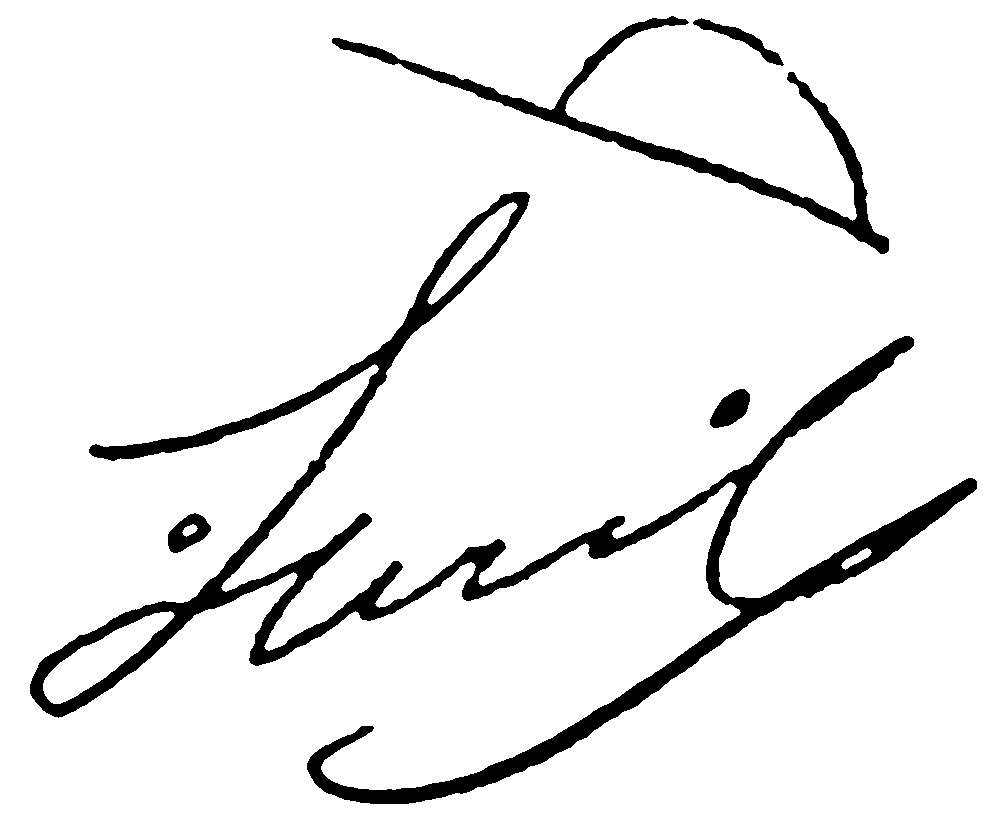
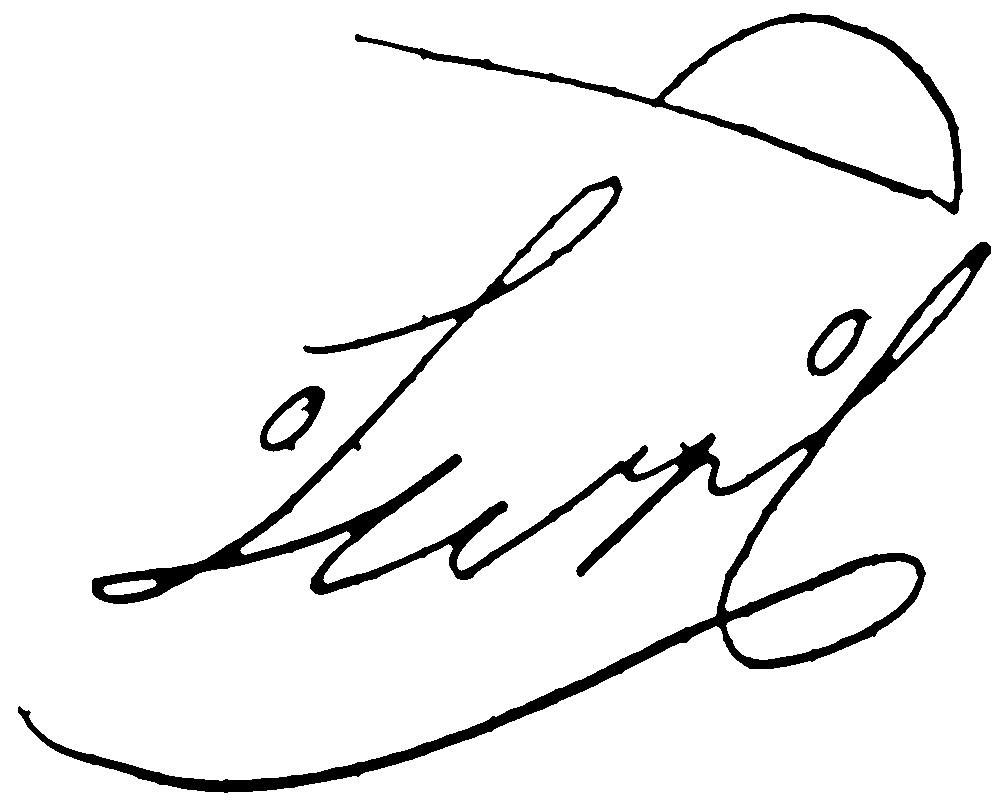
Signature traced from a cleaner pencil photo (rotated, grid filtered out)
clean-photo.py gains rotate and threshold options for sideways signatures on squared paper.

diff --git a/components/ui/signature.tsx b/components/ui/signature.tsx
@@ -6,49 +6,50 @@ import { cn } from '@/lib/utils';
 // sketch (shapes). Each stroke is cut into short pieces so the replay keeps the hand's speed changes:
 // [path, start (s), duration (s)].
 const PIECES: [string, number, number][] = [
-  ['M95.0 450.0C95.1 450.2 93.0 451.2 95.7 451.4C98.5 451.6 106.4 451.6 111.7 451.4C117.1 451.3 121.4 451.2 127.7 450.8C134.0 450.3 142.0 449.6 149.6 448.6C157.2 447.6 165.8 446.2 173.3 444.7C180.8 443.2 187.6 441.5 194.7 439.7C201.8 437.8 208.5 435.8 215.8 433.5C223.1 431.2 230.4 428.7 238.5 425.7C246.7 422.7 260.3 417.2 264.6 415.5', 0.0, 0.055],
-  ['M264.6 415.5C272.0 412.4 296.6 402.1 308.7 396.6C320.9 391.1 328.7 387.4 337.6 382.8C346.4 378.1 354.8 373.3 361.8 368.8C368.8 364.3 374.4 360.0 379.5 355.7C384.6 351.5 388.2 347.9 392.4 343.2C396.6 338.5 401.2 332.3 404.7 327.5C408.2 322.6 408.6 322.0 413.4 314.0C418.2 306.0 428.5 288.1 433.6 279.5C438.7 270.9 442.4 265.3 444.1 262.5', 0.055, 0.055],
-  ['M444.1 262.5C446.2 259.5 452.5 250.0 456.7 244.4C460.8 238.8 467.0 231.4 469.1 228.8', 0.11, 0.058],
-  ['M469.1 228.8C471.2 226.6 477.7 219.4 481.7 215.9C485.6 212.4 491.0 208.9 492.9 207.5', 0.168, 0.054],
-  ['M492.9 207.5C494.1 207.0 497.9 204.9 500.1 204.2C502.3 203.5 504.0 203.2 506.0 203.1C508.0 203.1 510.4 203.5 511.9 204.0C513.4 204.5 514.5 205.5 515.2 206.1C516.0 206.8 516.0 206.9 516.4 207.8C516.7 208.7 517.2 210.0 517.2 211.7C517.1 213.3 516.7 215.3 515.9 217.5C515.2 219.7 514.0 222.1 512.6 224.8C511.2 227.4 510.1 229.5 507.4 233.3C504.7 237.1 500.4 243.1 496.5 247.6C492.7 252.2 488.5 256.5 484.2 260.8C480.0 265.0 479.8 265.3 471.1 273.1C462.4 280.8 441.7 298.8 432.1 307.5C422.5 316.3 416.5 322.6 413.4 325.6', 0.222, 0.053],
-  ['M413.4 325.6C411.0 328.3 403.4 336.3 398.7 341.9C394.1 347.6 389.8 353.5 385.6 359.6C381.4 365.6 381.0 366.1 373.7 378.1C366.4 390.0 349.2 419.4 341.9 431.3C334.5 443.2 334.0 443.2 329.5 449.5C325.1 455.7 320.1 462.4 315.2 468.8C310.3 475.1 305.5 481.1 300.2 487.5C294.9 493.9 299.7 488.8 283.4 507.3C267.1 525.8 216.0 583.4 202.5 598.6', 0.275, 0.055],
-  ['M202.5 598.6C201.2 599.6 197.2 603.3 194.7 604.8C192.2 606.4 189.8 607.1 187.3 607.8C184.7 608.5 185.0 608.6 179.4 609.0C173.7 609.3 159.1 609.6 153.4 610.0C147.8 610.3 147.8 610.6 145.5 611.1C143.2 611.5 142.2 611.7 139.7 612.5C137.2 613.4 138.3 612.6 130.4 616.3C122.6 620.0 98.9 631.6 92.7 634.7', 0.329, 0.056],
-  ['M92.7 634.7C88.8 636.7 75.0 644.0 69.8 647.0C64.6 649.9 64.1 650.6 61.5 652.5C58.8 654.5 56.0 656.9 53.8 658.9C51.6 661.0 50.0 662.7 48.3 664.8C46.7 666.9 45.1 669.1 43.9 671.4C42.7 673.8 41.7 676.6 41.0 678.9C40.4 681.1 40.2 683.8 40.1 684.8', 0.385, 0.055],
-  ['M40.1 684.8C40.1 685.8 40.0 688.8 40.3 690.8C40.6 692.7 41.1 694.8 42.0 696.5C42.8 698.3 44.0 700.1 45.4 701.4C46.9 702.7 48.4 703.6 50.6 704.3C52.8 705.1 55.8 705.6 58.4 705.7C61.1 705.9 63.5 705.7 66.4 705.2C69.4 704.7 72.9 703.8 76.1 702.8C79.2 701.7 81.2 701.1 85.3 698.9C89.4 696.7 95.5 693.2 100.7 689.6C105.9 686.0 111.3 681.6 116.4 677.3C121.5 673.0 123.3 671.4 131.2 663.8C139.2 656.2 156.0 639.1 164.0 631.6C172.0 624.0 175.3 621.7 179.2 618.6C183.1 615.4 184.5 614.6 187.3 612.7C190.1 610.9 192.6 609.3 195.8 607.5C199.0 605.7 202.8 603.6 206.4 601.9C210.0 600.1 215.6 597.8 217.4 597.0', 0.44, 0.054],
-  ['M217.4 597.0C220.5 595.8 225.1 593.7 236.0 589.8C247.0 585.8 271.4 577.7 283.2 573.3C295.1 568.9 303.2 564.8 307.2 563.1', 0.494, 0.068],
-  ['M307.2 563.1C310.4 561.3 321.8 555.1 326.3 552.4C330.9 549.6 331.9 548.6 334.5 546.6C337.2 544.6 341.0 541.4 342.3 540.3', 0.562, 0.042],
-  ['M342.3 540.3C343.9 538.7 349.1 533.9 352.2 530.5C355.3 527.0 359.2 521.4 361.0 519.5C362.7 517.7 362.1 519.1 362.7 519.2C363.3 519.3 367.8 516.9 364.5 519.9C361.2 522.9 348.6 532.3 342.7 537.1C336.8 541.9 333.5 544.8 329.0 548.8C324.6 552.9 320.3 557.0 316.1 561.3C311.9 565.6 305.9 572.4 303.9 574.6', 0.604, 0.058],
-  ['M303.9 574.6C301.7 577.1 294.7 585.1 290.9 589.8C287.1 594.4 284.1 598.4 281.1 602.4C278.1 606.4 275.5 610.3 273.2 614.0C270.9 617.6 268.9 621.1 267.3 624.4C265.7 627.7 264.4 630.8 263.5 633.6C262.6 636.5 262.2 639.2 262.1 641.5C262.0 643.8 262.4 645.8 262.9 647.4C263.4 649.0 264.3 650.1 264.8 650.9C265.4 651.7 266.1 652.0 266.3 652.2', 0.662, 0.053],
-  ['M266.3 652.2C266.9 652.5 268.4 653.6 270.0 653.7C271.6 653.9 273.7 653.8 275.9 653.2C278.1 652.6 280.3 651.6 283.3 650.1C286.2 648.6 292.0 645.2 293.7 644.2', 0.715, 0.055],
-  ['M293.7 644.2C298.8 641.0 319.2 628.3 324.2 625.1', 0.77, 0.055],
-  ['M324.2 625.1C330.2 621.4 352.1 608.0 359.9 602.9C367.7 597.8 367.7 597.2 371.0 594.4C374.3 591.6 378.2 587.5 379.7 586.2', 0.825, 0.054],
-  ['M379.7 586.2C381.0 584.6 385.2 579.9 387.4 576.9C389.6 574.0 391.7 570.2 392.8 568.6C394.0 567.0 393.9 567.7 394.5 567.5C395.1 567.3 397.6 566.3 396.3 567.6C395.0 568.8 389.5 572.4 386.8 574.8C384.0 577.2 381.9 579.4 379.7 581.9C377.6 584.4 375.5 587.5 374.0 590.1C372.5 592.7 371.5 595.2 371.0 597.4C370.4 599.7 370.4 601.8 370.7 603.4C370.9 604.9 372.0 606.1 372.6 606.8C373.2 607.6 373.3 607.6 374.2 607.9C375.2 608.2 376.1 608.8 378.1 608.8C380.1 608.9 384.7 608.3 386.1 608.2', 0.879, 0.057],
-  ['M386.1 608.2C387.3 607.8 390.9 607.0 393.7 606.0C396.6 605.0 401.5 602.9 403.0 602.3', 0.935, 0.054],
-  ['M403.0 602.3C405.3 601.0 412.0 597.8 417.0 594.6C422.1 591.3 430.5 584.8 433.2 582.9', 0.989, 0.057],
-  ['M433.2 582.9C436.1 580.6 445.9 572.6 450.4 569.2C454.9 565.7 456.8 564.3 460.2 562.2C463.6 560.0 467.3 557.9 470.6 556.3C473.9 554.6 478.4 553.2 479.9 552.6', 1.046, 0.052],
-  ['M479.9 552.6C481.2 552.2 484.8 551.2 487.7 550.6C490.6 550.0 495.6 549.7 497.2 549.1C498.9 548.6 497.6 547.7 497.6 547.2C497.5 546.6 497.9 545.5 496.9 545.9C496.0 546.2 492.7 548.5 491.9 549.1', 1.098, 0.055],
-  ['M491.9 549.1C490.9 549.9 487.7 552.4 485.8 554.3C484.0 556.2 482.2 558.3 480.8 560.5C479.3 562.7 478.0 565.4 477.1 567.6C476.2 569.7 475.8 571.4 475.5 573.3C475.2 575.3 475.0 577.4 475.3 579.3C475.6 581.2 476.4 583.5 477.3 584.9C478.1 586.2 478.8 586.8 480.3 587.4C481.8 588.0 483.5 588.6 486.1 588.4C488.8 588.3 491.8 587.9 495.9 586.5C500.0 585.2 505.6 582.8 510.7 580.4C515.8 577.9 518.7 576.3 526.5 571.8C534.2 567.2 549.7 557.4 557.2 553.1C564.7 548.7 569.1 547.0 571.5 545.8', 1.153, 0.055],
-  ['M571.5 545.8C575.6 544.4 590.8 539.4 596.1 537.4C601.4 535.4 601.3 535.2 603.4 534.1C605.4 533.0 607.0 531.8 608.4 530.8C609.7 529.8 610.4 529.0 611.3 528.1C612.2 527.1 612.9 526.3 613.8 524.9C614.7 523.5 615.8 520.6 616.6 519.7C617.5 518.8 619.3 519.4 619.0 519.6C618.8 519.9 616.5 520.5 615.3 521.1C614.2 521.7 613.0 522.5 612.0 523.3C611.0 524.2 610.3 524.9 609.3 526.3C608.3 527.6 606.7 530.5 606.1 531.3', 1.208, 0.055],
-  ['M606.1 531.3C605.5 532.5 603.4 536.7 602.3 538.4C601.3 540.0 600.1 539.9 599.8 541.3C599.4 542.7 597.5 546.8 600.1 546.9C602.7 547.1 610.3 543.9 615.3 542.1C620.4 540.4 625.4 538.6 630.4 536.6C635.3 534.7 639.9 532.8 645.1 530.4C650.3 528.1 658.6 524.0 661.3 522.7', 1.262, 0.056],
-  ['M661.3 522.7C664.6 520.9 674.0 516.0 680.7 512.2C687.3 508.3 694.4 503.9 701.1 499.6C707.8 495.2 713.9 491.1 720.9 486.1C728.0 481.0 739.6 472.1 743.4 469.3', 1.318, 0.053],
-  ['M743.4 469.3C747.6 466.0 755.0 460.4 768.4 449.4C781.8 438.4 810.4 414.4 823.8 403.3C837.1 392.3 839.7 390.2 848.7 383.3C857.6 376.3 868.3 368.3 877.5 361.7C886.7 355.1 899.4 347.0 904.0 343.8C908.6 340.6 904.9 342.5 904.9 342.3C904.9 342.0 907.7 339.5 903.8 342.3C900.0 345.2 890.6 353.0 881.8 359.6C873.0 366.2 856.2 378.3 851.1 382.1', 1.372, 0.055],
-  ['M851.1 382.1C845.8 386.0 828.2 398.7 818.9 405.8C809.7 412.8 799.5 421.4 795.6 424.6', 1.427, 0.055],
-  ['M795.6 424.6C793.6 426.4 787.5 431.6 783.6 435.2C779.7 438.9 777.2 441.1 772.2 446.4C767.2 451.8 758.1 462.0 753.6 467.4C749.1 472.7 747.7 475.0 745.2 478.6C742.7 482.1 740.7 485.2 738.6 488.6C736.5 491.9 734.4 495.4 732.5 498.9C730.7 502.4 728.9 506.0 727.2 509.7C725.6 513.3 724.0 517.4 722.8 520.8C721.5 524.3 720.7 526.8 719.8 530.4C718.9 533.9 717.9 538.5 717.3 542.1C716.6 545.7 716.3 548.7 716.1 552.0C715.8 555.3 715.8 558.7 715.8 562.0C715.9 565.3 716.1 568.7 716.5 572.0C717.0 575.3 717.6 578.9 718.4 581.8C719.1 584.7 720.5 588.1 721.0 589.4', 1.482, 0.055],
-  ['M721.0 589.4C721.5 590.2 723.0 593.2 723.9 594.6C724.8 596.0 725.5 596.7 726.4 597.7C727.3 598.6 728.0 599.4 729.4 600.3C730.8 601.2 732.8 602.4 734.7 603.1C736.5 603.9 738.5 604.3 740.5 604.7C742.4 605.0 744.1 605.2 746.5 605.2C748.8 605.3 751.8 605.2 754.4 604.9C757.1 604.7 758.8 604.5 762.3 603.7C765.9 602.8 771.1 601.6 775.8 599.9C780.5 598.1 785.4 595.9 790.4 593.3C795.3 590.6 799.6 587.9 805.7 583.8C811.7 579.7 823.2 571.1 826.7 568.6', 1.536, 0.056],
-  ['M826.7 568.6C828.9 567.1 835.1 562.6 839.9 559.6C844.7 556.6 844.5 556.1 855.5 550.5C866.5 544.9 894.8 531.4 905.8 525.9C916.8 520.4 919.1 518.9 921.7 517.5', 1.592, 0.057],
-  ['M921.7 517.5C924.0 516.1 931.2 512.0 935.4 509.2C939.6 506.5 943.2 504.1 946.9 501.3C950.7 498.5 954.6 495.3 957.8 492.5C961.1 489.7 964.8 485.6 966.6 484.3C968.4 483.0 968.1 484.5 968.3 484.7C968.6 484.9 968.8 485.0 968.0 485.8C967.1 486.5 967.2 486.4 963.1 489.3C959.0 492.1 949.9 498.4 943.2 502.7C936.5 507.1 931.8 510.2 922.9 515.5C914.0 520.7 904.5 526.3 889.9 534.3C875.3 542.3 844.3 558.6 835.2 563.5', 1.65, 0.051],
-  ['M835.2 563.5C828.5 567.2 807.6 578.4 795.0 585.9C782.4 593.3 771.1 600.5 759.4 608.1C747.6 615.7 744.3 617.9 724.6 631.6C704.9 645.3 661.7 676.1 641.1 690.3C620.6 704.5 613.8 708.8 601.2 716.9C588.5 724.9 576.8 732.0 565.2 738.5C553.6 745.1 541.5 751.4 531.6 756.3C521.8 761.2 514.4 764.4 506.1 767.9C497.9 771.4 490.1 774.5 481.9 777.4C473.8 780.3 465.2 783.0 457.2 785.4C449.2 787.7 441.4 789.7 434.0 791.4C426.5 793.0 418.9 794.4 412.3 795.4C405.7 796.3 400.4 796.9 394.4 797.1C388.4 797.4 382.1 797.4 376.4 797.0C370.8 796.6 363.2 795.2 360.6 794.8', 1.701, 0.055],
-  ['M360.6 794.8C359.0 794.4 353.8 793.1 351.0 792.2C348.1 791.3 346.2 790.6 343.5 789.4C340.7 788.1 337.2 786.3 334.6 784.8C332.0 783.3 329.8 781.7 328.0 780.3C326.2 778.9 324.9 777.7 323.5 776.3C322.2 774.8 320.9 773.2 319.9 771.5C318.9 769.8 318.1 767.6 317.7 766.0C317.4 764.4 317.5 763.3 317.7 762.0C317.8 760.7 318.3 759.4 318.8 758.2C319.4 757.0 319.9 756.1 321.0 754.8C322.1 753.6 323.5 752.1 325.2 750.6C327.0 749.1 328.0 748.1 331.7 745.9C335.5 743.8 341.6 740.3 347.6 737.5C353.6 734.8 364.4 730.9 367.8 729.5', 1.756, 0.054],
-  ['M177.0 533.0C176.7 532.9 175.1 532.8 175.2 532.1C175.3 531.5 177.3 529.5 177.7 529.0', 1.963, 0.055],
-  ['M177.7 529.0C178.4 528.3 180.6 525.8 181.8 524.7C183.0 523.5 183.9 522.9 185.0 522.2C186.1 521.5 187.3 520.8 188.5 520.4C189.8 520.0 191.5 519.8 192.5 519.8C193.4 519.7 193.6 519.7 194.4 520.1C195.3 520.6 196.8 521.4 197.6 522.4C198.4 523.4 198.9 524.8 199.1 526.1C199.3 527.4 198.9 529.4 198.8 530.0', 2.018, 0.062],
-  ['M198.8 530.0C198.4 530.9 197.0 534.0 196.1 535.4C195.2 536.7 194.4 537.4 193.4 538.2C192.4 539.1 190.6 540.1 190.0 540.4', 2.081, 0.047],
-  ['M190.0 540.4C189.1 540.7 185.9 541.8 184.3 541.9C182.7 542.1 181.6 541.8 180.4 541.3C179.1 540.9 177.9 540.2 176.8 539.5C175.8 538.7 174.4 537.4 174.0 536.7C173.6 536.0 174.1 535.8 174.5 535.5C174.9 535.1 175.9 534.6 176.2 534.5', 2.128, 0.055],
-  ['M723.4 415.6C724.6 414.4 729.4 409.8 730.6 408.6', 2.438, 0.047],
-  ['M730.6 408.6C731.3 408.0 734.3 405.3 735.1 404.6', 2.485, 0.058],
-  ['M735.1 404.6C735.7 403.9 738.4 400.9 739.1 400.2', 2.543, 0.05],
-  ['M883.0 245.0C883.0 244.3 889.5 244.8 883.3 241.1C877.0 237.4 860.0 229.5 845.4 222.9C830.8 216.3 813.5 208.6 795.9 201.4C778.3 194.1 755.9 185.5 740.1 179.4C724.2 173.3 714.7 170.0 700.6 165.0C686.5 160.0 695.1 162.6 655.3 149.2C615.5 135.9 504.6 99.4 461.7 84.8C418.8 70.2 418.0 69.4 397.7 61.8C377.4 54.2 350.0 43.0 340.0 39.1C330.1 35.2 338.8 38.4 338.2 38.5C337.6 38.6 336.9 39.5 336.6 39.7', 2.817, 0.082],
-  ['M860.0 227.0C860.3 226.4 861.7 224.8 862.0 223.6C862.4 222.3 862.5 222.6 862.3 219.7C862.1 216.7 861.6 210.7 860.8 205.8C860.1 200.8 858.8 194.6 857.8 190.0C856.8 185.5 856.0 182.6 854.8 178.4C853.5 174.3 852.0 169.5 850.5 165.1C848.9 160.7 847.2 156.4 845.4 152.1C843.6 147.8 842.6 145.3 839.6 139.3C836.5 133.4 831.5 124.0 827.0 116.6C822.4 109.3 816.1 100.6 812.1 95.3C808.2 89.9 806.1 87.7 803.2 84.5C800.4 81.2 797.9 78.5 795.1 75.7C792.3 72.8 789.4 70.0 786.5 67.3C783.5 64.6 781.9 62.9 777.4 59.5C772.9 56.0 765.4 50.4 759.5 46.7C753.6 43.0 746.7 39.5 741.9 37.1C737.2 34.8 734.3 33.8 730.9 32.5C727.5 31.2 726.2 30.6 721.4 29.3C716.6 28.1 708.5 25.9 701.9 24.9C695.3 23.9 687.0 23.4 682.0 23.1C677.0 22.9 675.3 23.1 672.0 23.3C668.7 23.5 665.4 23.8 662.1 24.2C658.7 24.7 655.5 25.2 652.2 25.9C648.9 26.6 645.7 27.4 642.5 28.4C639.3 29.3 636.1 30.4 633.0 31.6C629.9 32.8 625.4 34.9 623.9 35.5', 3.075, 0.062],
-  ['M623.9 35.5C622.1 36.5 617.0 39.0 613.4 41.3C609.7 43.6 605.3 46.7 601.9 49.4C598.5 52.1 596.0 54.3 593.0 57.4C589.9 60.4 586.5 64.1 583.6 67.8C580.7 71.4 577.9 75.2 575.4 79.1C572.9 83.0 570.6 87.1 568.5 91.3C566.4 95.5 564.5 99.9 562.8 104.1C561.2 108.3 559.3 114.5 558.6 116.6', 3.138, 0.062],
+  ['M307.0 348.0C307.6 348.7 305.8 352.7 310.6 352.4C315.4 352.1 321.8 349.3 335.8 346.1C349.8 343.0 380.2 336.9 394.5 333.6C408.8 330.4 413.9 328.7 421.5 326.5C429.2 324.2 434.2 322.4 440.4 319.9C446.6 317.5 453.1 314.7 458.7 311.8C464.3 308.9 469.5 305.8 474.2 302.7C478.9 299.6 484.8 294.6 486.9 293.0', 0.0, 0.055],
+  ['M486.9 293.0C488.6 291.4 493.7 287.0 497.2 283.5C500.7 280.0 500.4 281.0 508.1 271.8C515.9 262.7 535.8 238.0 543.7 228.6C551.6 219.1 552.5 218.6 555.8 215.2C559.0 211.9 560.5 210.6 563.0 208.4C565.6 206.2 567.0 204.7 570.8 202.1C574.6 199.4 582.3 194.7 586.0 192.5C589.8 190.3 590.8 190.1 593.2 189.0C595.7 188.0 598.5 187.0 600.8 186.4C603.0 185.8 605.1 185.4 606.7 185.4C608.3 185.4 609.7 185.9 610.5 186.2C611.4 186.6 611.6 187.1 611.9 187.6C612.3 188.2 612.5 188.6 612.5 189.5C612.6 190.5 612.6 191.9 612.3 193.5C612.0 195.1 611.2 197.4 610.5 199.2C609.8 201.1 609.1 202.6 608.0 204.7C606.9 206.7 605.6 209.1 604.0 211.6C602.3 214.1 600.0 217.3 598.2 219.7C596.4 222.1 595.1 223.7 593.1 225.9C591.1 228.1 589.6 229.9 586.1 233.0C582.6 236.1 578.1 240.2 572.2 244.5C566.3 248.8 554.2 256.5 550.6 258.9', 0.055, 0.055],
+  ['M550.6 258.9C544.3 262.7 519.3 278.0 513.0 281.8', 0.11, 0.057],
+  ['M513.0 281.8C510.5 283.5 502.6 288.5 497.9 291.6C493.3 294.8 487.1 299.4 484.9 301.0', 0.167, 0.052],
+  ['M484.9 301.0C482.8 302.6 476.5 307.5 472.4 310.9C468.3 314.4 466.7 315.5 460.4 321.5C454.2 327.5 442.9 338.4 434.9 346.8C426.8 355.3 423.4 359.0 412.1 372.1C400.7 385.1 377.7 412.4 366.6 425.3C355.5 438.2 348.9 445.3 345.4 449.3', 0.219, 0.055],
+  ['M345.4 449.3C339.9 455.0 320.4 475.7 312.2 484.0C304.1 492.3 301.5 494.4 296.3 499.1C291.2 503.9 286.4 508.1 281.3 512.4C276.2 516.7 270.8 521.1 265.8 525.0C260.8 528.9 256.3 532.3 251.3 535.7C246.4 539.2 241.2 542.7 236.4 545.7C231.6 548.7 227.0 551.4 222.6 553.8C218.2 556.2 214.1 558.4 210.2 560.2C206.3 562.1 203.2 563.5 199.2 565.1C195.2 566.7 190.2 568.6 186.0 569.9C181.9 571.3 178.4 572.3 174.5 573.2C170.6 574.2 166.7 575.1 162.8 575.8C158.9 576.5 159.2 576.8 150.9 577.5C142.6 578.3 120.3 579.6 113.0 580.3C105.7 580.9 108.7 581.0 107.2 581.5C105.6 582.0 104.4 582.8 103.7 583.4C102.9 584.0 102.8 584.4 102.6 585.0C102.3 585.6 102.3 586.3 102.4 587.0C102.5 587.6 102.3 587.8 103.0 588.9C103.8 590.0 105.7 592.3 106.9 593.4C108.1 594.5 109.2 594.8 110.4 595.3C111.6 595.8 111.9 596.2 114.2 596.4C116.5 596.6 120.2 596.9 124.2 596.4C128.1 596.0 133.4 594.9 137.9 593.8C142.4 592.6 146.9 591.1 151.3 589.5C155.6 587.9 158.4 586.8 164.2 584.2C170.0 581.6 182.2 575.5 185.8 573.8', 0.274, 0.055],
+  ['M185.8 573.8C189.2 572.3 199.8 567.3 206.0 564.9C212.2 562.5 217.0 561.1 223.1 559.4C229.2 557.8 231.5 557.2 242.6 555.1C253.7 553.0 278.4 548.9 289.9 546.7C301.3 544.4 307.7 542.2 311.2 541.4', 0.329, 0.057],
+  ['M311.2 541.4C314.4 540.3 323.9 537.4 330.2 535.1C336.4 532.8 342.6 530.2 348.7 527.5C354.8 524.8 360.5 522.0 366.7 518.8C372.9 515.6 382.7 509.9 385.9 508.1', 0.386, 0.053],
+  ['M385.9 508.1C388.8 506.4 397.3 501.2 402.9 497.6C408.5 494.0 410.9 492.6 419.5 486.4C428.1 480.2 455.0 460.2 454.6 460.4C454.3 460.5 428.2 480.0 417.6 487.6C407.0 495.1 398.1 501.1 391.2 505.7C384.2 510.2 380.7 512.2 375.9 515.1C371.0 518.0 365.4 521.1 361.9 523.0C358.4 524.9 356.3 526.1 354.8 526.7C353.3 527.2 352.9 525.8 352.9 526.1C353.0 526.3 354.6 527.3 355.1 528.0C355.6 528.6 355.8 528.9 355.8 529.8C355.8 530.8 355.5 532.5 354.9 533.6C354.4 534.8 355.3 534.0 352.4 536.7C349.5 539.5 341.4 546.0 337.5 550.0C333.6 554.1 330.4 559.3 329.0 561.1', 0.439, 0.055],
+  ['M329.0 561.1C328.2 562.6 325.5 567.2 324.4 570.0C323.2 572.7 322.6 575.7 322.3 577.7C322.1 579.6 322.7 580.6 323.0 581.6C323.3 582.5 323.7 582.7 324.2 583.1C324.7 583.6 325.0 583.9 325.9 584.2C326.8 584.5 327.8 585.0 329.8 585.0C331.8 585.0 334.2 585.0 337.8 584.3C341.3 583.6 340.9 584.4 351.3 580.8C361.7 577.2 391.9 565.6 400.0 562.5', 0.494, 0.068],
+  ['M400.0 562.5C403.7 561.0 415.4 556.3 422.2 553.4C428.9 550.5 437.3 546.5 440.4 545.1', 0.562, 0.041],
+  ['M440.4 545.1C443.0 543.8 451.1 539.8 456.3 536.8C461.6 533.9 466.7 530.9 471.8 527.6C476.9 524.4 481.8 521.0 486.7 517.5C491.5 514.0 499.1 508.0 500.9 506.5C502.8 505.0 498.7 507.9 498.0 508.5C497.3 509.0 497.2 509.4 496.9 510.0C496.7 510.6 496.7 511.4 496.4 511.9C496.2 512.4 496.2 512.8 495.3 513.0C494.5 513.2 492.6 513.1 491.3 513.3C490.0 513.5 489.0 513.8 487.5 514.4C486.0 515.0 483.8 516.1 482.1 517.1C480.4 518.1 479.5 518.6 477.3 520.6C475.0 522.5 471.3 526.0 468.7 529.0C466.1 532.0 462.8 537.0 461.6 538.6', 0.604, 0.055],
+  ['M461.6 538.6C461.0 539.8 458.8 543.5 457.8 545.6C456.7 547.7 456.1 549.3 455.5 551.2C454.9 553.1 454.3 555.4 454.0 557.0C453.8 558.6 453.8 559.7 454.0 561.0C454.2 562.3 454.8 563.8 455.3 564.7C455.7 565.6 455.8 565.6 456.7 566.1C457.5 566.6 459.1 567.3 460.3 567.7C461.6 568.0 462.7 568.1 464.3 568.0C466.0 568.0 468.3 567.7 470.3 567.4C472.2 567.0 473.0 567.1 476.1 565.9C479.2 564.8 484.8 562.6 489.0 560.5C493.1 558.3 495.7 556.7 500.8 553.1C506.0 549.4 516.8 541.1 520.0 538.7', 0.659, 0.055],
+  ['M520.0 538.7C524.3 535.5 541.5 522.9 545.8 519.7', 0.714, 0.055],
+  ['M545.8 519.7C551.6 515.7 574.6 499.7 580.3 495.7', 0.769, 0.057],
+  ['M580.3 495.7C590.2 488.9 629.7 461.7 639.6 454.9', 0.826, 0.053],
+  ['M639.6 454.9C639.9 454.7 640.8 454.2 641.2 453.7C641.6 453.2 641.9 452.5 642.0 451.9C642.1 451.3 642.2 450.1 642.0 449.9C641.8 449.7 642.7 448.6 640.9 450.9C639.1 453.2 633.2 460.6 631.1 463.6C629.1 466.6 629.1 467.8 628.7 469.0C628.3 470.3 628.5 470.4 628.6 471.0C628.7 471.6 628.7 472.3 629.5 472.8C630.2 473.3 631.6 473.9 633.2 474.0C634.8 474.1 633.0 475.0 639.2 473.5C645.3 472.1 663.6 466.9 670.1 465.4C676.6 463.8 676.3 464.4 678.0 464.3C679.6 464.2 679.4 464.4 679.9 464.8C680.4 465.1 680.8 465.8 681.0 466.4C681.1 466.9 681.0 467.4 680.6 468.3C680.3 469.2 679.7 470.5 678.8 471.9C678.0 473.3 676.0 476.0 675.4 476.8', 0.878, 0.056],
+  ['M675.4 476.8C673.2 479.3 664.4 489.3 662.3 491.9', 0.934, 0.055],
+  ['M662.3 491.9C660.1 494.0 654.3 500.0 649.5 504.6C644.7 509.2 636.1 517.0 633.4 519.5', 0.989, 0.057],
+  ['M633.4 519.5C628.7 523.8 612.7 538.0 605.2 545.1C597.7 552.2 591.2 559.3 588.4 562.1', 1.046, 0.053],
+  ['M588.4 562.1C588.0 562.6 586.7 564.3 585.7 565.1C584.8 566.0 583.0 567.0 582.5 567.5C582.0 568.0 580.4 570.5 582.7 568.2C585.0 565.8 594.1 556.0 596.4 553.6', 1.098, 0.054],
+  ['M596.4 553.6C604.7 545.9 635.0 518.2 646.4 507.5C657.8 496.8 660.0 494.2 664.8 489.2C669.6 484.1 672.2 481.0 675.3 477.1C678.4 473.2 681.6 468.5 683.4 465.7C685.3 462.9 686.6 461.3 686.5 460.5C686.4 459.7 683.6 460.6 682.8 460.9C682.0 461.1 681.8 461.5 681.7 461.9C681.7 462.2 680.8 463.9 682.2 463.1C683.6 462.3 688.3 458.4 690.2 457.1C692.1 455.8 692.5 455.8 693.8 455.3C695.0 454.9 696.3 454.4 697.6 454.3C698.9 454.1 700.3 454.1 701.6 454.5C702.8 454.8 704.5 456.1 705.0 456.4', 1.153, 0.055],
+  ['M705.0 456.4C705.4 456.9 706.7 458.5 707.4 459.6C708.1 460.8 708.1 460.4 709.0 463.3C709.8 466.2 711.5 473.6 712.4 476.8C713.4 480.0 713.7 481.0 714.4 482.5C715.2 484.0 715.8 484.8 716.8 485.7C717.8 486.6 718.7 487.3 720.2 487.7C721.8 488.1 723.9 488.4 726.1 488.1C728.4 487.8 730.8 487.2 733.8 486.0C736.9 484.7 739.9 483.3 744.6 480.7C749.3 478.2 759.0 472.4 761.9 470.7', 1.208, 0.055],
+  ['M761.9 470.7C766.2 468.1 780.3 459.8 787.6 455.2C795.0 450.6 800.0 447.3 806.0 443.1C812.0 438.9 818.5 434.2 823.7 430.0C828.9 425.9 835.1 420.3 837.3 418.3', 1.262, 0.056],
+  ['M837.3 418.3C839.7 415.9 846.7 409.3 851.3 404.1C856.0 398.9 860.7 393.2 865.4 387.1C870.1 381.1 873.5 376.5 879.6 367.8C885.7 359.1 898.4 340.3 902.2 334.8', 1.318, 0.053],
+  ['M902.2 334.8C904.9 331.0 913.3 319.0 918.6 312.1C923.8 305.2 928.6 299.2 933.7 293.4C938.7 287.7 943.8 282.4 948.8 277.5C953.9 272.7 958.4 268.7 963.9 264.4C969.4 260.1 978.9 254.1 981.9 251.8C984.9 249.4 982.1 250.2 982.0 250.3C982.0 250.3 983.0 249.4 981.8 252.1C980.6 254.8 978.0 260.7 974.8 266.5C971.6 272.3 967.1 280.2 962.5 287.1C957.8 294.0 952.9 300.8 947.0 308.0C941.2 315.3 934.1 323.3 927.3 330.6C920.4 337.9 916.4 341.9 906.1 351.8C895.8 361.8 872.1 383.8 865.3 390.2', 1.372, 0.055],
+  ['M865.3 390.2C860.6 394.9 845.9 409.0 837.0 418.4C828.1 427.9 816.1 442.2 811.9 447.0', 1.427, 0.056],
+  ['M811.9 447.0C808.7 451.2 798.5 464.0 792.4 472.3C786.3 480.7 781.1 488.4 775.5 497.1C769.9 505.8 764.1 515.5 759.0 524.5C753.9 533.5 749.6 541.8 745.1 551.1C740.6 560.4 735.1 572.9 731.9 580.3C728.8 587.6 727.6 591.1 726.1 595.2C724.6 599.2 723.8 601.8 723.0 604.7C722.2 607.6 721.7 609.8 721.2 612.5C720.8 615.1 720.5 618.1 720.4 620.4C720.3 622.7 720.4 624.4 720.7 626.4C720.9 628.4 721.7 631.3 721.9 632.3', 1.483, 0.054],
+  ['M721.9 632.3C722.3 633.2 723.0 635.8 724.2 637.8C725.3 639.8 727.2 642.6 728.6 644.4C730.0 646.3 731.0 647.2 732.7 648.8C734.4 650.4 736.8 652.3 738.9 653.8C741.1 655.4 743.4 656.7 745.8 658.0C748.1 659.2 750.6 660.3 753.1 661.2C755.6 662.1 758.5 662.9 760.8 663.4C763.0 664.0 763.7 664.2 766.7 664.4C769.7 664.5 774.7 664.6 778.7 664.2C782.6 663.8 786.6 662.9 790.4 661.9C794.3 660.9 794.0 661.1 801.9 658.3C809.7 655.5 831.5 647.2 837.5 645.0', 1.537, 0.055],
+  ['M837.5 645.0C840.9 643.6 851.5 639.8 857.9 636.9C864.3 634.1 870.3 631.1 875.8 628.0C881.3 624.9 886.4 621.6 891.0 618.3C895.5 615.0 900.3 610.7 903.2 608.0C906.1 605.3 907.0 603.8 908.5 602.0C910.0 600.2 910.9 598.8 912.0 597.1C913.0 595.4 914.0 593.7 914.8 591.8C915.6 590.0 916.3 588.1 916.7 586.2C917.1 584.2 917.3 581.9 917.3 580.2C917.2 578.6 916.9 577.5 916.5 576.3C916.1 575.1 915.4 573.9 914.6 572.8C913.9 571.7 912.4 570.4 911.9 569.9', 1.592, 0.058],
+  ['M911.9 569.9C911.1 569.3 909.0 567.6 907.0 566.5C904.9 565.4 901.8 564.2 899.6 563.4C897.4 562.7 896.1 562.4 893.8 562.0C891.5 561.6 888.5 561.2 885.8 561.0C883.2 560.9 880.5 560.9 877.8 561.0C875.2 561.2 874.5 561.0 869.9 561.8C865.3 562.6 857.7 563.9 850.3 566.0C843.0 568.0 836.0 570.3 825.7 574.2C815.4 578.0 802.1 583.5 788.6 589.1C775.1 594.8 760.4 601.2 744.6 608.3C728.7 615.3 702.2 627.8 693.7 631.7', 1.65, 0.051],
+  ['M693.7 631.7C673.5 641.2 599.1 676.4 572.5 688.8C545.9 701.2 546.4 700.6 534.1 705.9C521.9 711.3 510.9 715.9 499.1 720.7C487.4 725.5 475.3 730.2 463.7 734.5C452.2 738.9 440.9 742.9 429.8 746.6C418.8 750.3 408.3 753.7 397.4 756.9C386.5 760.1 375.6 763.1 364.6 765.9C353.6 768.6 342.3 771.2 331.5 773.4C320.7 775.6 310.2 777.4 300.0 778.9C289.7 780.5 280.1 781.6 270.2 782.5C260.2 783.4 249.9 784.1 240.2 784.4C230.6 784.7 221.6 784.7 212.2 784.3C202.9 784.0 193.3 783.3 184.3 782.4C175.4 781.5 167.1 780.3 158.6 778.8C150.1 777.2 137.4 774.2 133.2 773.3', 1.701, 0.055],
+  ['M133.2 773.3C130.0 772.3 120.0 769.6 114.0 767.7C107.9 765.8 102.6 763.9 97.0 761.7C91.4 759.6 86.1 757.4 80.4 754.8C74.6 752.1 68.9 749.4 62.4 746.0C56.0 742.5 48.7 738.4 41.7 733.9C34.6 729.5 23.8 721.9 20.2 719.2C16.7 716.6 20.0 718.6 20.6 718.0C21.2 717.4 23.3 716.0 23.8 715.6', 1.756, 0.054],
+  ['M307.0 393.0C306.7 393.2 306.3 393.6 305.4 393.9C304.5 394.2 303.1 394.2 301.5 394.6C299.9 395.1 296.8 396.3 295.8 396.7', 1.963, 0.055],
+  ['M295.8 396.7C294.4 397.5 289.9 399.8 287.2 401.7C284.5 403.6 281.9 405.8 279.6 408.1C277.2 410.5 274.9 413.3 273.2 415.8C271.5 418.2 270.3 420.3 269.3 422.8C268.3 425.2 267.5 428.5 267.1 430.5C266.7 432.4 266.8 433.1 266.9 434.4C266.9 435.8 267.1 437.1 267.5 438.4C267.9 439.6 268.8 441.1 269.3 441.9C269.8 442.7 270.2 442.9 270.7 443.3C271.3 443.7 271.5 444.0 272.5 444.3C273.4 444.5 275.7 444.8 276.4 444.8', 2.018, 0.057],
+  ['M276.4 444.8C277.4 444.6 280.1 444.4 282.2 443.6C284.4 442.9 286.9 441.7 289.5 440.2C292.0 438.7 295.1 436.6 297.6 434.4C300.2 432.3 303.6 428.6 304.8 427.5', 2.075, 0.055],
+  ['M304.8 427.5C305.6 426.4 308.3 423.1 309.6 421.1C310.9 419.2 311.8 417.7 312.6 415.9C313.4 414.1 314.2 411.9 314.6 410.3C315.1 408.7 315.2 408.0 315.3 406.3C315.3 404.7 315.1 402.0 314.8 400.4C314.5 398.8 314.2 398.1 313.4 396.6C312.6 395.2 310.7 392.8 309.8 391.9C309.0 390.9 308.9 390.8 308.5 391.0C308.1 391.1 307.7 392.4 307.5 392.7', 2.13, 0.053],
+  ['M855.0 314.0C854.8 314.3 854.8 315.4 854.0 315.6C853.1 315.8 850.7 315.4 850.0 315.3', 2.374, 0.057],
+  ['M850.0 315.3C848.7 315.6 844.6 315.9 842.2 316.8C839.7 317.6 837.3 319.0 835.1 320.5C832.9 322.0 831.1 323.6 829.1 325.7C827.0 327.9 824.8 330.5 822.9 333.6C820.9 336.6 818.7 340.8 817.3 344.2C815.9 347.5 815.0 350.8 814.4 353.7C813.8 356.6 813.8 359.7 813.9 361.7C813.9 363.6 814.5 364.6 814.9 365.5C815.3 366.4 815.9 366.9 816.1 367.1', 2.431, 0.053],
+  ['M816.1 367.1C816.3 367.3 816.8 368.0 817.7 368.2C818.6 368.5 819.7 369.0 821.6 368.6C823.6 368.3 826.5 367.4 829.2 366.1C831.9 364.8 834.7 363.0 837.6 360.7C840.5 358.5 845.0 354.0 846.5 352.7', 2.484, 0.056],
+  ['M846.5 352.7C847.7 351.1 852.1 345.7 853.9 343.2C855.6 340.8 855.9 339.8 856.8 338.0C857.6 336.2 858.4 334.3 858.9 332.4C859.5 330.5 859.8 328.1 860.0 326.5C860.1 324.8 860.0 323.8 859.8 322.5C859.6 321.2 859.3 319.9 858.8 318.6C858.3 317.4 857.3 315.7 857.0 315.1', 2.54, 0.053],
+  ['M951.0 206.0C950.7 206.1 955.7 209.2 949.3 206.8C942.8 204.4 924.7 196.4 912.4 191.4C900.0 186.3 893.9 183.7 875.2 176.6C856.5 169.5 823.7 157.3 800.1 149.0C776.5 140.7 756.2 134.1 733.7 127.0C711.1 119.9 687.4 112.8 664.7 106.4C641.9 99.9 620.0 94.1 597.0 88.3C574.1 82.6 552.4 77.3 527.0 71.8C501.6 66.2 465.3 59.0 444.7 55.0C424.1 51.0 417.4 50.1 403.3 47.7C389.2 45.3 367.3 42.1 359.9 40.7C352.5 39.2 359.1 39.2 359.0 38.9', 2.817, 0.082],
+  ['M951.0 206.0C951.2 206.9 951.6 212.2 952.3 211.1C953.1 210.0 954.4 204.1 955.3 199.5C956.2 194.9 957.2 188.7 957.8 183.7C958.3 178.7 958.5 174.0 958.5 169.7C958.6 165.4 958.4 161.4 958.1 157.7C957.8 154.1 957.4 151.1 956.9 147.8C956.4 144.5 955.9 141.5 955.0 138.0C954.2 134.4 952.9 129.9 951.8 126.4C950.7 122.9 949.7 120.1 948.4 117.0C947.2 113.9 945.8 110.9 944.3 107.9C942.9 104.9 941.5 102.2 939.6 99.1C937.8 95.9 935.3 92.0 933.2 88.9C931.1 85.9 929.5 83.8 927.2 80.9C925.0 78.1 921.9 74.5 919.4 71.8C917.0 69.1 915.1 67.2 912.4 64.7C909.7 62.2 906.5 59.3 903.4 56.8C900.3 54.2 896.8 51.7 893.8 49.5C890.8 47.4 888.6 45.9 885.5 44.0C882.3 42.1 878.3 39.9 875.0 38.1C871.8 36.4 869.4 35.3 866.0 33.8C862.6 32.4 858.3 30.6 854.9 29.4C851.4 28.1 848.5 27.3 845.3 26.3C842.1 25.4 839.2 24.7 835.6 23.9C832.1 23.1 827.5 22.3 823.8 21.7C820.2 21.2 817.6 20.9 813.9 20.6C810.3 20.3 805.6 20.1 801.9 20.1C798.3 20.0 795.6 20.1 791.9 20.3C788.3 20.5 783.6 20.9 780.0 21.4C776.3 21.8 773.7 22.3 770.1 23.0C766.5 23.7 762.3 24.7 758.4 25.7C754.6 26.8 750.5 28.2 747.0 29.4C743.6 30.6 739.3 32.5 737.7 33.1', 3.075, 0.062],
+  ['M737.7 33.1C735.9 34.0 730.5 36.5 726.9 38.3C723.4 40.2 719.7 42.5 716.6 44.4C713.5 46.4 711.3 47.9 708.4 50.1C705.4 52.3 702.3 54.8 699.0 57.6C695.8 60.5 692.4 63.7 688.9 67.3C685.5 71.0 681.6 75.5 678.5 79.5C675.4 83.4 673.1 86.7 670.4 90.9C667.7 95.1 664.0 103.0 662.4 104.6C660.8 106.3 661.3 101.5 661.1 100.9', 3.138, 0.062],
 ];
 
 interface SignatureProps {
@@ -66,8 +67,8 @@ export function Signature({ className, animate = true }: SignatureProps) {
   }, [animate]);
 
   return (
-    <svg viewBox="26 9 956 802" role="img" aria-label="Isaac's signature" className={cn('h-auto overflow-visible', className)}>
-      <g fill="none" stroke="currentColor" strokeWidth={10.5} strokeLinecap="round" strokeLinejoin="round">
+    <svg viewBox="6 6 990 793" role="img" aria-label="Isaac's signature" className={cn('h-auto overflow-visible', className)}>
+      <g fill="none" stroke="currentColor" strokeWidth={7.6} strokeLinecap="round" strokeLinejoin="round">
         {PIECES.map(([d, delay, duration]) => (
           <path
             key={d}

diff --git a/art/build-signature.py b/art/build-signature.py
@@ -34,17 +34,20 @@ CUSP_DEGREES = 100  # direction changes sharper than this (the peaks, retraces) 
 # Pen strokes in the take's order, as waypoints in sketch-clean.png pixels. Consecutive waypoints are joined along
 # the ink, so loops need a waypoint on each side to be drawn the right way round, and retraces revisit a point.
 STROKES = [
-    # Lead-in, I (top loop, stem, big left loop), u, r with its spur, the tall flourish up and back, down into the
-    # junction, out to the tip and back, then the swash sweeping left into the hook.
-    [(95, 450), (385, 355), (421, 303), (520, 198), (437, 307), (385, 358), (215, 590), (182, 607), (100, 630),
-     (38, 690), (100, 686), (182, 607), (306, 565), (365, 520), (306, 565), (260, 652), (365, 605), (395, 565),
-     (367, 607), (500, 545), (472, 590), (600, 537), (620, 520), (600, 540), (740, 477), (907, 342), (740, 477),
-     (712, 550), (747, 605), (970, 485), (747, 605), (440, 785), (315, 765), (370, 726)],
-    [(176, 532), (190, 519), (201, 527), (187, 540), (176, 532)],  # little circle before the I
-    [(723, 418), (742, 397)],  # dot
-    [(882, 245), (560, 116), (335, 41)],  # overline, right to left
-    [(860, 227), (790, 77), (782, 62), (695, 21), (687, 21), (600, 58), (560, 116)],  # flag, right end up and over
+    # Lead-in, I (top loop, stem, left loop), u and r with their peaks and spur, the downstroke, the l loop, then the
+    # big closing loop and the swash sweeping back left into the hook.
+    [(307, 349), (460, 314), (497, 285), (540, 235), (615, 185), (560, 252), (497, 285), (460, 314), (350, 440),
+     (232, 555), (165, 575), (120, 577), (100, 585), (130, 598), (165, 575), (232, 557), (350, 527), (455, 460),
+     (350, 527), (320, 582), (455, 540), (500, 507), (455, 540), (460, 572), (570, 510), (625, 470), (642, 450),
+     (625, 470), (680, 460), (580, 570), (680, 460), (712, 490), (812, 445), (890, 362), (929, 300), (982, 250),
+     (955, 300), (890, 362), (812, 445), (760, 520), (720, 617), (750, 662), (815, 655), (920, 575), (890, 557),
+     (720, 617), (440, 740), (200, 785), (25, 712)],
+    [(307, 393), (263, 430), (272, 446), (312, 410), (307, 393)],  # little circle before the I
+    [(855, 315), (812, 352), (825, 372), (857, 327), (855, 315)],  # dot
+    [(952, 205), (660, 102), (357, 37)],  # overline, right to left
+    [(952, 205), (955, 120), (900, 45), (800, 17), (700, 50), (660, 100)],  # flag, right end up and over
 ]
+
 
 take_path = sys.argv[1] if len(sys.argv) > 1 else sorted(glob.glob(os.path.join(HERE, 'signature', 'take-*.json')))[-1]
 debug_path = sys.argv[2] if len(sys.argv) > 2 else None

diff --git a/art/clean-photo.py b/art/clean-photo.py
@@ -1,7 +1,9 @@
 """Turn a phone photo of the signature into art/signature/sketch-clean.png (black line on white, ~1000px wide).
 
 Flattens paper tone and lighting, blurs away pencil grain, thresholds, and closes small gaps in faint strokes.
-Run: python3 art/clean-photo.py photo.jpg left top right bottom   (crop box in the upright photo's pixels)
+Run: python3 art/clean-photo.py photo.jpg left top right bottom [rotate] [threshold]
+  crop box is in the photo's (EXIF-upright) pixels; rotate turns the crop counter-clockwise in degrees, for a
+  signature written sideways; lower the threshold (default 0.925) to drop faint grid lines on squared paper.
 Then: python3 art/trace-sketch.py sheet.png, update STROKES in build-signature.py, python3 art/build-signature.py
 """
 import os
@@ -15,12 +17,15 @@ from skimage.morphology import disk, remove_small_objects
 OUT = os.path.join(os.path.dirname(os.path.abspath(__file__)), 'signature', 'sketch-clean.png')
 
 photo, *box = sys.argv[1:6]
+rotate = float(sys.argv[6]) if len(sys.argv) > 6 else 0
+threshold = float(sys.argv[7]) if len(sys.argv) > 7 else 0.925
 img = ImageOps.exif_transpose(Image.open(photo)).convert('L').crop(tuple(int(v) for v in box))
+img = img.rotate(rotate, expand=True, fillcolor=255) if rotate else img
 a = np.asarray(img, float)
 a = np.clip(a / ndimage.gaussian_filter(a, 40), 0, 1)  # paper tone and lighting -> white
 small = Image.fromarray((a * 255).astype(np.uint8)).resize((1000, round(1000 * img.height / img.width)), Image.LANCZOS)
 s = ndimage.gaussian_filter(np.asarray(small, float) / 255, 2.0)  # merge pencil grain into a solid line
-ink = s < 0.925
+ink = s < threshold
 ink = ndimage.binary_closing(ink, structure=disk(4))
 ink = ndimage.binary_opening(ink, structure=disk(1))
 ink = remove_small_objects(ink, max_size=220)
